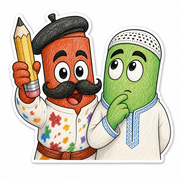
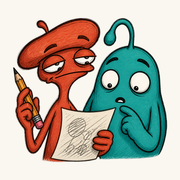
Move every remaining generated asset to Higgsfield, matching the current cast
Requested explicitly, following the hero fix: every generated graphic, in
every section, built the same way. Two different problems were in scope.

The splash backdrop and five mode scenes were composites of pose cutouts, same
as the old hero — pasted-together lighting, no natural overlap between
characters. The hero's fix applies directly: one gpt_image_2 generation per
scene, single-pose idle cutouts as references (never the full pose sheet,
which the model can misread as more than one character), not a composite.

accusation_group, the impostor mask art, the countdown creature and the app
icon were a different problem — leftover flat-vector generations from before
the owner's own characters became canon. They were never touched by the
character-cast switch, so they clashed with the current art direction
outright: one used the wrong colour for a character, and the app icon showed
a design that no longer exists in the cast at all. Regenerated in the current
coloured-pencil style, using idle cutouts as character references where a
character appears and a style-only reference where it doesn't (the impostor
mask is deliberately tied to no character, unchanged from the original
brief).

The countdown creature (a nameless one-eyed character, also unchanged from the
brief) is generated as a chain rather than three independent calls: beat 3
first, then its own output passed as the character reference for beats 2 and
[…]

diff --git a/src/assets/registry.ts b/src/assets/registry.ts
@@ -355,32 +355,32 @@ export const assetRegistry: Readonly<Record<AssetId, AssetEntry>> = {
   mode_scene_mozawwer: {
     src: sceneMozawwer,
     alt: 'مجموعة ترسم بثقة وواحد متوتر يحاول الاندماج',
-    width: 615,
-    height: 400,
+    width: 1341,
+    height: 658,
   },
   mode_scene_kammil: {
     src: sceneKammil,
     alt: 'رسمة تُمرَّر بسرعة بين اللاعبين',
-    width: 700,
-    height: 348,
+    width: 1346,
+    height: 624,
   },
   mode_scene_mamnou3at: {
     src: sceneMamnou3at,
     alt: 'شخصية تحاول الرسم وبعض العناصر ممنوعة عليها',
-    width: 668,
-    height: 440,
+    width: 1049,
+    height: 756,
   },
   mode_scene_mushtarak: {
     src: sceneMushtarak,
     alt: 'شخصيتان ترسمان على نفس الورقة بأقلام مختلفة',
-    width: 678,
-    height: 480,
+    width: 1049,
+    height: 739,
   },
   mode_scene_kanat_esh: {
     src: sceneKanatEsh,
     alt: 'رسمة تنتقل بين الشخصيات وتتغير تدريجيًا',
-    width: 700,
-    height: 382,
+    width: 1333,
+    height: 698,
   },
 
   /*
@@ -398,44 +398,44 @@ export const assetRegistry: Readonly<Record<AssetId, AssetEntry>> = {
   splash_backdrop: {
     src: splashBackdrop,
     alt: 'مجموعة من شخصيات اللعبة تتجمع وتحدّق بدهشة نحو رسمة غريبة',
-    width: 960,
-    height: 711,
+    width: 1028,
+    height: 972,
   },
   reveal_role_impostor: {
     src: revealRoleImpostor,
     alt: 'قناع تنكري أسود مائل بعينين غير متماثلتين',
-    width: 600,
-    height: 446,
+    width: 951,
+    height: 641,
   },
   unmask_impostor: {
     src: unmaskImpostor,
     alt: 'القناع التنكري يطير بعيدًا وسط انفجار من الخطوط الدرامية',
-    width: 700,
-    height: 567,
+    width: 1113,
+    height: 851,
   },
   accusation_group: {
     src: accusationGroup,
     alt: 'ثلاث شخصيات تشير بأصابعها بغضب نحو المزوّر المكشوف',
-    width: 700,
-    height: 528,
+    width: 1086,
+    height: 837,
   },
   countdown_3_surprised: {
     src: countdown3Surprised,
     alt: 'شخصية صغيرة بعين واحدة تندهش وهي ترى الرسمة',
-    width: 621,
-    height: 700,
+    width: 1048,
+    height: 645,
   },
   countdown_2_grabs_pen: {
     src: countdown2GrabsPen,
     alt: 'الشخصية نفسها تندفع لتمسك بالقلم',
-    width: 634,
-    height: 700,
+    width: 1115,
+    height: 630,
   },
   countdown_1_ready: {
     src: countdown1Ready,
     alt: 'الشخصية نفسها تستعد للرسم ممسكة بالقلم بثبات',
-    width: 640,
-    height: 700,
+    width: 773,
+    height: 713,
   },
 };
 

diff --git a/ASSET_MANIFEST.md b/ASSET_MANIFEST.md
@@ -393,7 +393,8 @@ field where no brightness threshold could):
   `scripts/build-scene.py art-reference/scenes.json src/assets/generated
   --only <scene_id>`.
 - **Batch 7 is now fully superseded** for character-bearing assets. Its
-  `logo_wordmark` and `app_icon` still stand — neither shows a character.
+  `logo_wordmark` still stands — it shows no character. Its `app_icon` was
+  later superseded too, by Batch 11.
 
 ## Batch 10 — Hero regenerated as one Higgsfield illustration (current direction)
 
@@ -441,6 +442,83 @@ Background removed with `remove_background`, trimmed to content with an
 - The splash backdrop and the five mode scenes are still Batch 9 composites.
   They were not requested to change, but the same one-shot-generation approach
   would likely improve them the same way if that's ever wanted.
+
+## Batch 11 — Every remaining generated asset moved to Higgsfield (current direction)
+
+Requested explicitly, following Batch 10: "ابا كل الرسومات المولدة تصير بهيقزفيلد في
+كل الاقسام" — every generated graphic, in every section, should be built the
+Batch 10 way. Two different problems were in scope, not one:
+
+- **Batch 9's mode scenes and splash backdrop** were composites of pose
+  cutouts, same as the old hero — pasted-together lighting, no natural
+  overlap. Batch 10's fix (one `gpt_image_2` generation, single-pose idle
+  cutouts as references, not the full pose sheet) applies directly.
+- **Batch 7's `accusation_group`, the impostor mask art, the countdown
+  creature and the app icon** were never touched by Batch 8 or 9 at all —
+  they were still flat-vector generations from before the owner's own
+  characters became canon, so they clashed with the current cast outright (one
+  even used the wrong colour for a character) or, for the icon, showed a
+  character design that no longer exists. These needed the style fix as much
+  as the characters did, whether or not they show a character.
+
+**Splash and mode scenes** — six references or fewer per scene (the exact
+cast the scene needs), single-pose idle cutouts, same coloured-pencil prompt
+header as Batch 10:
+
+| id | size | file |
+|---|---|---|
+| `splash_backdrop` | 1028×972 | `src/assets/generated/splash_backdrop.webp` |
+| `mode_scene_mozawwer` | 1341×658 | `src/assets/generated/mode_scene_mozawwer.webp` |
+| `mode_scene_kammil` | 1346×624 | `src/assets/generated/mode_scene_kammil.webp` |
+| `mode_scene_mamnou3at` | 1049×756 | `src/assets/generated/mode_scene_mamnou3at.webp` |
+| `mode_scene_mushtarak` | 1049×739 | `src/assets/generated/mode_scene_mushtarak.webp` |
+| `mode_scene_kanat_esh` | 1333×698 | `src/assets/generated/mode_scene_kanat_esh.webp` |
+
+**المزوّر art** — `accusation_group` reuses three idle cutouts (الفنان،
+الناقد، الملخبط) pointing at the unmasked impostor. The mask art is
+deliberately not tied to any character (ART_BIBLE.md, unchanged from Batch 4)
+so it carries no character reference, only a style one:
+
+| id | size | file |
+|---|---|---|
+| `accusation_group` | 1086×837 | `src/assets/generated/accusation_group.webp` |
+| `reveal_role_impostor` | 951×641 | `src/assets/generated/reveal_role_impostor.webp` |
+| `unmask_impostor` | 1113×851 | `src/assets/generated/unmask_impostor.webp` |
+
+**Countdown creature** — a nameless one-eyed character, not one of the ten
+(unchanged from Batch 4). Generated as a CHAIN, not three independent
+generations: beat 3 was generated first from a style reference only, then its
+own job output was passed as the character reference for beats 2 and 1. That
+is what keeps it the same creature across all three beats — three independent
+generations of "a nameless one-eyed creature" would not agree with each other
+on what it looks like.
+
+| id | size | file |
+|---|---|---|
+| `countdown_3_surprised` | 1048×645 | `src/assets/generated/countdown_3_surprised.webp` |
+| `countdown_2_grabs_pen` | 1115×630 | `src/assets/generated/countdown_2_grabs_pen.webp` |
+| `countdown_1_ready` | 773×713 | `src/assets/generated/countdown_1_ready.webp` |
+
+**App icon** — الفنان and الملخبط, chest-up, high contrast, regenerated
+because the old icon showed a moustached character and a taqiyah-wearing
+green character that match nothing in the current cast:
+
+| id | size | file |
+|---|---|---|
+| `app_icon` | 1142×1142 source, exported at 512/192/180/32/16 | `public/icon-512.png`, `icon-192.png`, `apple-touch-icon.png`, `favicon-32.png`, `favicon-16.png` |
+
+**Batch 11 notes.**
+
+- Same background-removal step throughout: `remove_background`, trimmed to
+  content, small padding, WebP q90 for the illustrations. The icon is the one
+  exception — exported onto a solid paper background, not transparent, per the
+  existing rule that favicons render on unpredictable browser chrome.
+- At 16×16 the icon reads as two colour blocks, not two characters — an
+  inherent limit of any detailed art at that size, not specific to this
+  generation. 32px and up read clearly.
+- **Batches 4, 6, 7 and 9 are now fully superseded** — nothing in this
+  document past Batch 8 (the owner's cast) still describes a shipped asset.
+  They are kept as the historical record of how the art direction got here.
 
 ## Batch 5 — Functional icons
 
